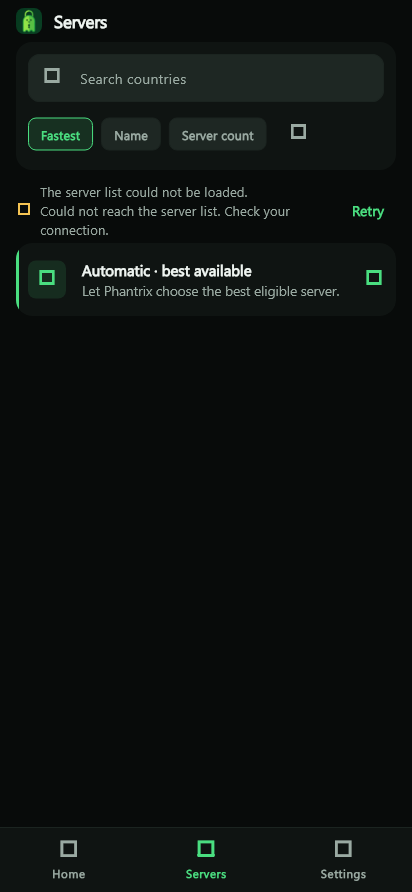
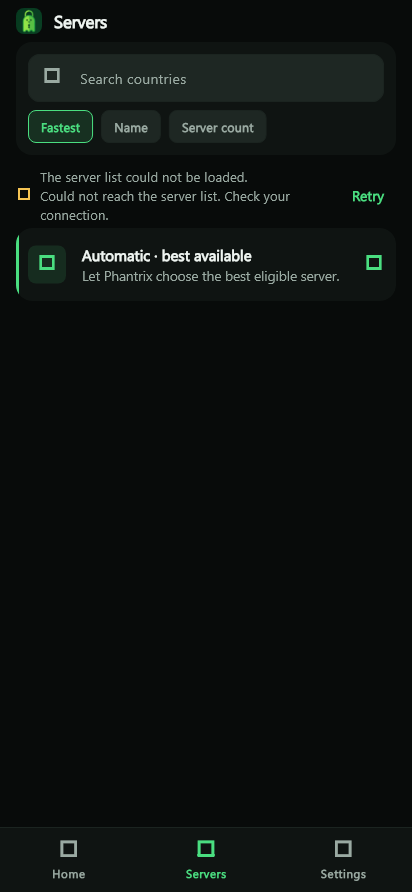
locations: remove the map for good
- the map was decoration over data that is already a country list: it
  forced panning and zooming to find anything, and its pins only
  restated the rows next to it
- globe_map, the map toggle, the pin conversion and their tests are
  gone; servers keeps search, sort and the relay list
- refreshed the servers screenshot to match

diff --git a/lib/ui/screens/locations_state.dart b/lib/ui/screens/locations_state.dart
@@ -4,7 +4,6 @@ class _LocationsScreenState extends State<LocationsScreen> {
   final _search = TextEditingController();
   String _query = '';
   String _sort = 'latency';
-  bool _mapVisible = false;
 
   @override
   void dispose() {
@@ -88,9 +87,9 @@ class _LocationsScreenState extends State<LocationsScreen> {
                       ),
                     ),
                     const SizedBox(height: VgSpace.sm),
-                    // A Wrap, not a Row: the sort controls plus the map
-                    // toggle do not fit a narrow phone, and wrapping
-                    // keeps them usable at a 2x text scale.
+                    // A Wrap, not a Row: the sort controls do not fit a
+                    // narrow phone, and wrapping keeps them usable at a 2x
+                    // text scale.
                     Wrap(
                       spacing: VgSpace.sm,
                       runSpacing: VgSpace.sm,
@@ -111,36 +110,11 @@ class _LocationsScreenState extends State<LocationsScreen> {
                           selected: _sort == 'count',
                           onSelected: () => setState(() => _sort = 'count'),
                         ),
-                        IconButton(
-                          tooltip: l10n.get('toggleMap'),
-                          isSelected: _mapVisible,
-                          onPressed: () =>
-                              setState(() => _mapVisible = !_mapVisible),
-                          icon: const Icon(Icons.public_rounded),
-                        ),
                       ],
                     ),
                   ],
                 ),
               ),
-              if (_mapVisible) ...[
-                const SizedBox(height: VgSpace.md),
-                VgSurface(
-                  padding: EdgeInsets.zero,
-                  clip: false,
-                  child: SizedBox(
-                    // Taller on a window with room for it: a map
-                    // squashed to a strip is decoration, and this is
-                    // meant to be read.
-                    height:
-                        MediaQuery.sizeOf(context).width >=
-                            VgBreakpoints.twoColumn
-                        ? 320
-                        : 170,
-                    child: GlobeMap(servers: mapServersOf(snapshot.servers)),
-                  ),
-                ),
-              ],
               const SizedBox(height: VgSpace.md),
               DirectoryBanner(
                 snapshot: snapshot,

diff --git a/lib/ui/screens/country_directory.dart b/lib/ui/screens/country_directory.dart
@@ -1,7 +1,5 @@
 import 'package:phantrix_core/phantrix_core.dart';
 
-import '../widgets/globe_map.dart';
-
 /// One country row, derived from real server data.
 ///
 /// Every field here comes from a [DirectorySnapshot]. Nothing is defaulted to
@@ -92,21 +90,6 @@ TrustLevel weakestTrust(Iterable<TrustLevel> levels) {
   }
   return weakest;
 }
-
-/// Converts servers into map pins.
-///
-/// A server with no coordinates is dropped rather than pinned at (0, 0),
-/// which would place it off the coast of Africa and be actively misleading.
-List<MapServer> mapServersOf(List<VpnServer> servers) => [
-  for (final server in servers)
-    if (server.latitude != null && server.longitude != null)
-      MapServer(
-        latitude: server.latitude!,
-        longitude: server.longitude!,
-        label: server.city ?? server.countryCode,
-        countryCode: server.countryCode,
-      ),
-];
 
 /// Sorts country rows for display.
 List<CountryEntry> sortCountryEntries(List<CountryEntry> entries, String mode) {

diff --git a/test/discovery_test.dart b/test/discovery_test.dart
@@ -274,21 +274,6 @@ void main() {
     });
   });
 
-  group('mapServersOf', () {
-    test('drops servers with no coordinates rather than pinning (0,0)', () {
-      final pins = mapServersOf([
-        server(id: 'a', country: 'DE', latitude: 52.5, longitude: 13.4),
-        server(id: 'b', country: 'JP'),
-      ]);
-      expect(pins, hasLength(1));
-      expect(pins.single.latitude, 52.5);
-    });
-
-    test('is empty for an empty list', () {
-      expect(mapServersOf(const []), isEmpty);
-    });
-  });
-
   group('DiscoveryController', () {
     test('connect readiness refreshes provider data even when disk cache is populated', () async {
       final cachedServer = server(id: 'cached', country: 'HK');

diff --git a/lib/ui/screens/locations_screen.dart b/lib/ui/screens/locations_screen.dart
@@ -5,7 +5,6 @@ import 'package:flutter/material.dart';
 import 'package:phantrix_core/phantrix_core.dart';
 
 import '../shell.dart';
-import '../widgets/globe_map.dart';
 import '../../theme/tokens.dart';
 import '../components/rows.dart';
 import '../components/surfaces.dart';
